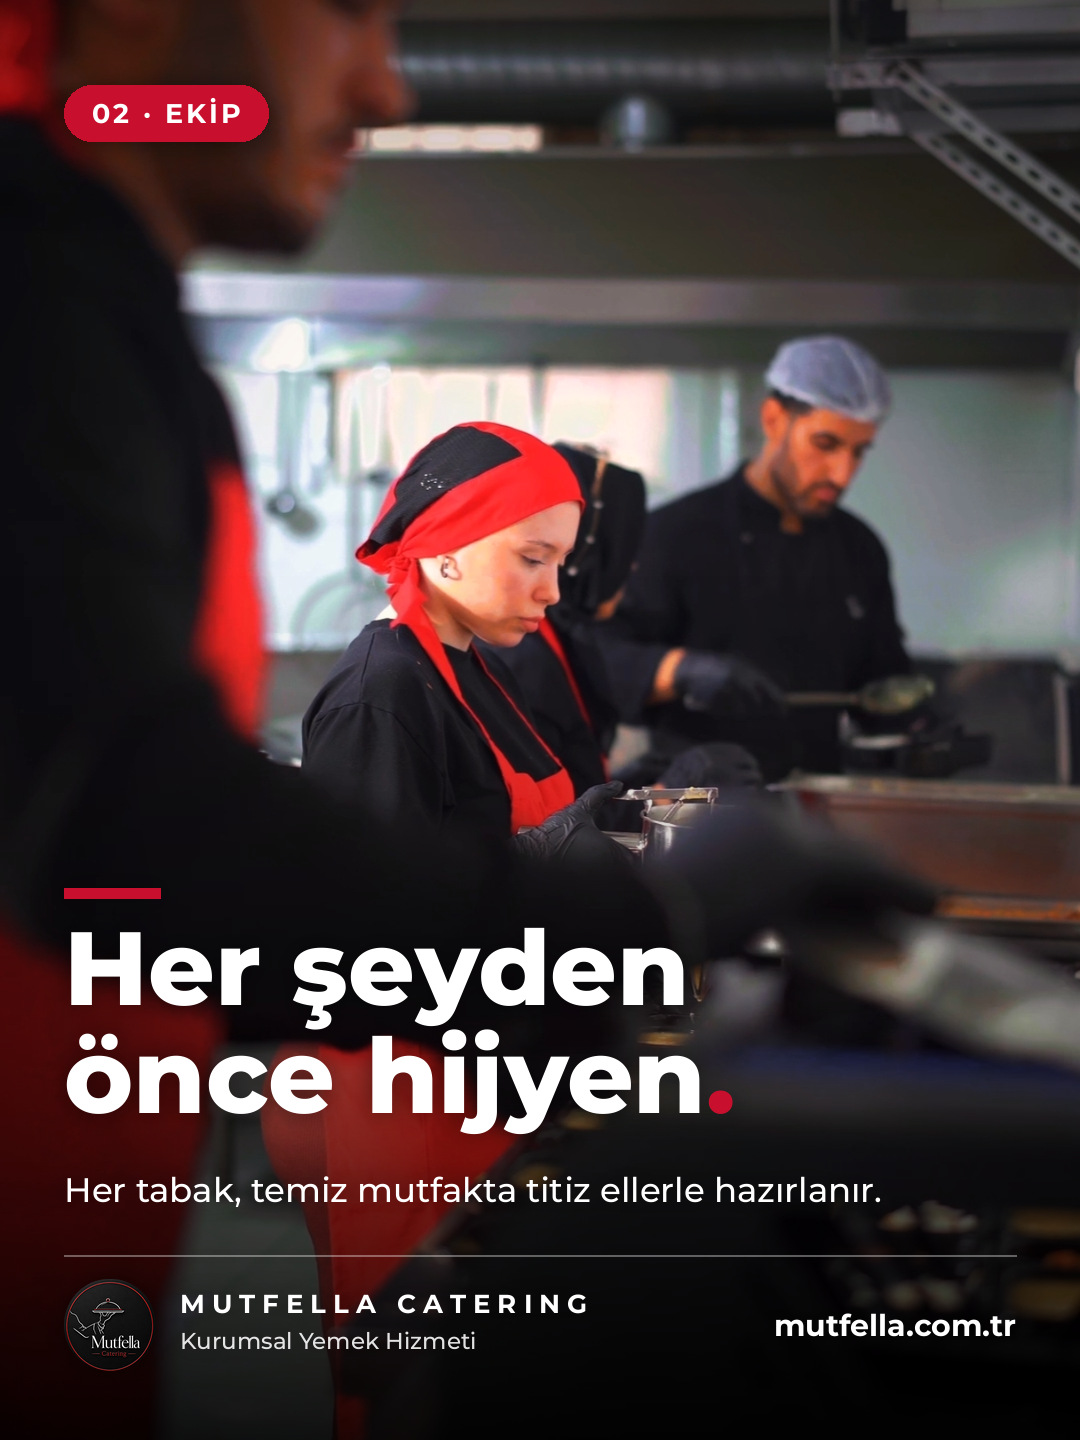
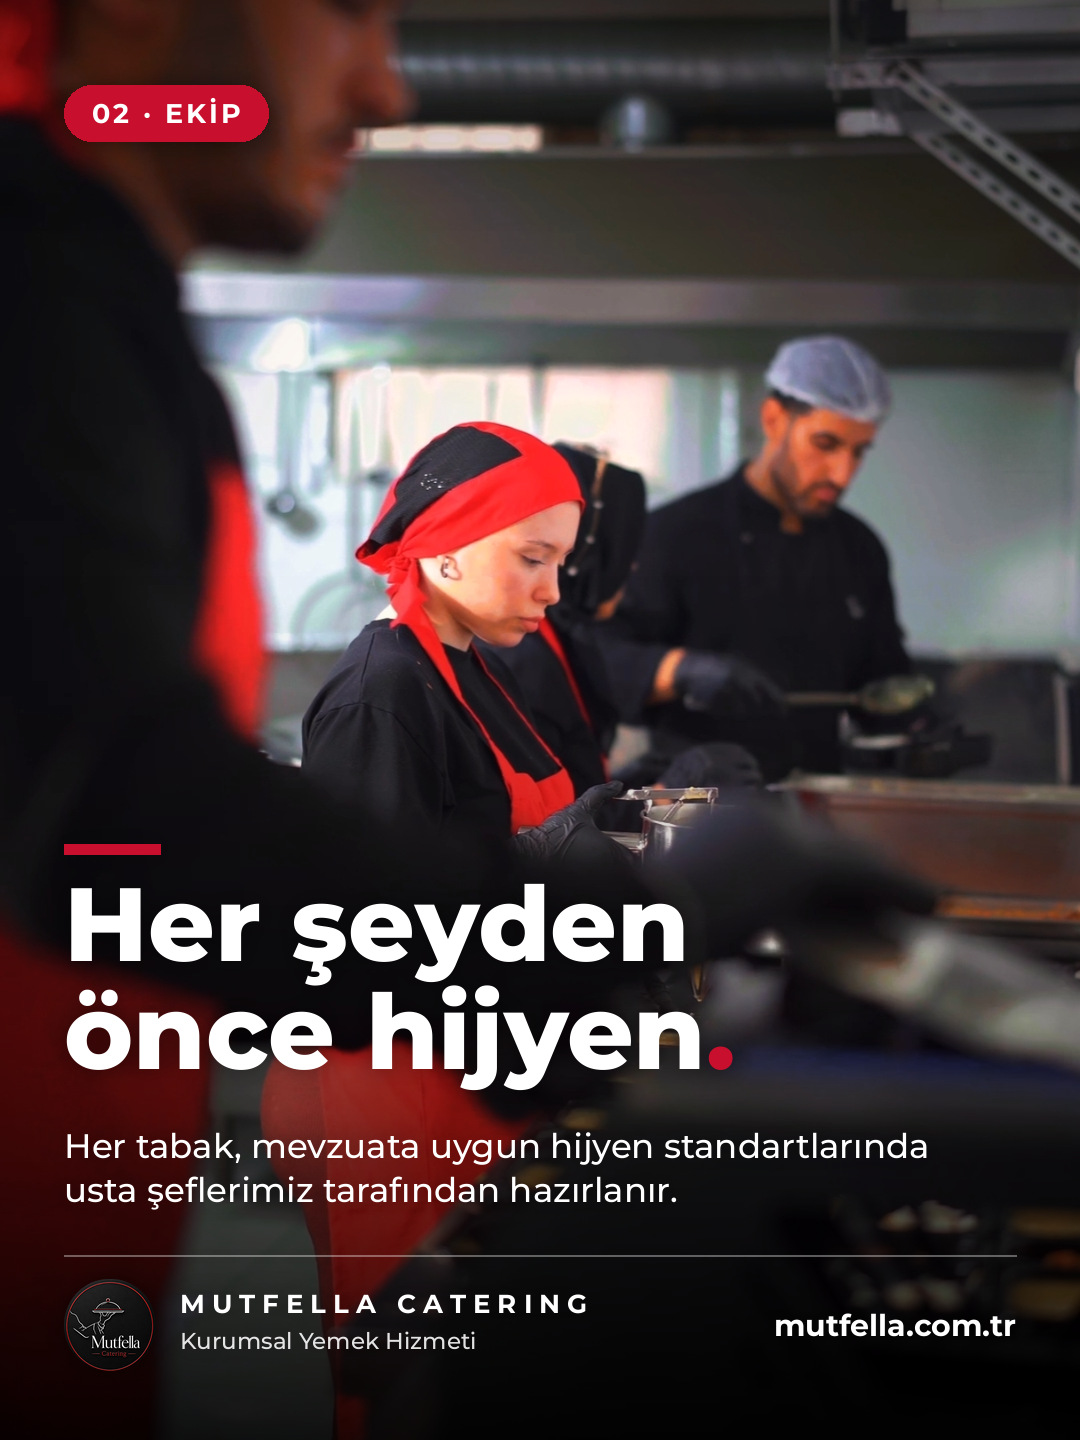
Stress regulation-compliant hygiene and expert chefs on the day 6 post
The line under "Her şeyden önce hijyen." now says every plate is prepared
by the chefs to hygiene standards that meet the regulations. Post subtitles
can now be a sentence that wraps (or breaks at a newline) as well as a
list of short items.

Claude-Session: https://claude.ai/code/session_01XJxz6TxayURknP2UowWRAx

Changed region(s): [[0.0611, 0.5625, 0.8556, 0.8438]]

diff --git a/mutfella-icerik/uretim/feed.py b/mutfella-icerik/uretim/feed.py
@@ -138,20 +138,26 @@ def subline(draw, x, y, items):
         x += draw.textlength(item, font=fnt)
 
 
+def wrap_lines(draw, text, fnt, width):
+    """Word-wrap `text` to `width`; a newline in the text forces a break."""
+    lines = []
+    for para in text.split("\n"):
+        line = ""
+        for word in para.split():
+            trial = f"{line} {word}".strip()
+            if draw.textlength(trial, font=fnt) > width and line:
+                lines.append(line)
+                line = word
+            else:
+                line = trial
+        lines.append(line)
+    return lines
+
+
 def wrapped(draw, x, y, text, fnt, width, fill=WHITE, leading=1.3):
     """Draw `text` word-wrapped to `width`; returns the y below the last line."""
-    words, line = text.split(), ""
-    lines = []
-    for word in words:
-        trial = f"{line} {word}".strip()
-        if draw.textlength(trial, font=fnt) > width and line:
-            lines.append(line)
-            line = word
-        else:
-            line = trial
-    lines.append(line)
     step = round(fnt.size * leading)
-    for line in lines:
+    for line in wrap_lines(draw, text, fnt, width):
         draw.text((x, y), line, font=fnt, fill=fill)
         y += step
     return y
@@ -193,12 +199,19 @@ def post(item, size):
     asc = fnt.getbbox("H")[1]
     y_line = footer(ink)
     if item["duzen"] == "alt":
-        sub_y = y_line - 46 - 40
+        # "alt" is either a list of short items (one line, red dots between) or a sentence that may wrap
+        sub_font = font("Medium", 34)
+        sentence = isinstance(item["alt"], str)
+        extra = len(wrap_lines(draw, item["alt"], sub_font, W - 2 * MARGIN)) - 1 if sentence else 0
+        sub_y = y_line - 46 - 40 - extra * round(34 * 1.3)
         head_bottom = sub_y - 34
         head_y = head_bottom - (step * (len(lines) - 1) + fnt.getbbox("Hg")[3])
         draw.rectangle((MARGIN, head_y + asc - 44, MARGIN + 96, head_y + asc - 34), fill=RED)
         headline(draw, MARGIN, head_y, lines, size)
-        subline(draw, MARGIN, sub_y, item["alt"])
+        if sentence:
+            wrapped(draw, MARGIN, sub_y, item["alt"], sub_font, W - 2 * MARGIN)
+        else:
+            subline(draw, MARGIN, sub_y, item["alt"])
     else:
         head_y = 45 + 40 + 56 + 92 - asc
         draw.rectangle((MARGIN, head_y + asc - 44, MARGIN + 96, head_y + asc - 34), fill=RED)

diff --git a/mutfella-icerik/feed-9-gun/PAYLASIM-PLANI.md b/mutfella-icerik/feed-9-gun/PAYLASIM-PLANI.md
@@ -126,7 +126,7 @@ Bu tempoya kaç puan verirsin? Yorumlara yaz. 👇
 ```
 Her şeyden önce hijyen. 🧤
 
-Yemek siparişinde en çok neyi merak edersiniz? Biz söyleyelim: mutfağı. 👀 Bizim için hijyen bir ayrıntı değil, işin kendisi. Eldivenler, boneler, pırıl pırıl tezgâhlar ve aynı titizlikle çalışan bir ekip… Her tabak, temiz mutfakta titiz ellerle hazırlanır.
+Yemek siparişinde en çok neyi merak edersiniz? Biz söyleyelim: mutfağı. 👀 Bizim için hijyen bir ayrıntı değil, işin kendisi. Eldivenler, boneler, pırıl pırıl tezgâhlar… Her tabak, mevzuata uygun hijyen standartlarında usta şeflerimiz tarafından hazırlanır.
 
 Ofisinizde yemek işini kim organize ediyorsa bu gönderiyi ona gönderin. 📩
 
